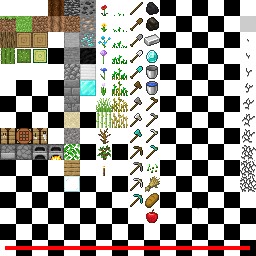
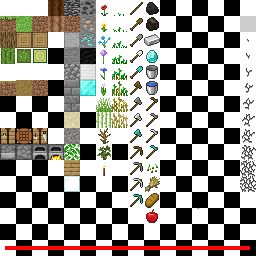
dirt paths + sapling growth

Changed region(s): [[0.0, 0.3125, 0.1875, 0.375]]

diff --git a/Sources/tickUpdate.cpp b/Sources/tickUpdate.cpp
@@ -18,8 +18,18 @@ void Chunk::updateCrop( int value, int offset )
 	int posX = ((offset >> WORLD_SHIFT) >> CHUNK_SHIFT);
 	// std::cout << _startX << ", " << _startY << ": update crop at " << posX << ", " << posY << ", " << posZ << std::endl;
 	int light = getLightLevel(posX, posY, posZ);
-	if (maxi(light & 0xF, (light >> 8) & 0xF) < 9) { // crop requires light level of at least 9 to grow // TODO handle night light dimming
+	light = maxi(light & 0xF, (light >> 8) & 0xF);
+	if (light < 9) { // crop requires light level of at least 9 to grow // TODO handle night light dimming
 		// std::cout << "Failure. sky light " << ((light >> 8) & 0xF) << ", block light " << (light & 0xF) << std::endl;
+		if (light <= 7) { // uproot // TODO crops can't be planted if light level <= 7
+			entity_block(posX, posY, posZ, value & 0xFF);
+			_blocks[offset] = blocks::AIR;
+			_added[offset] = blocks::AIR;
+			_displayed_faces -= 4;
+			delete [] static_cast<GLint*>(_vertices);
+			_vertices = new GLint[_displayed_faces * 4 * 6];
+			_vertex_update = true;
+		}
 		return ;
 	}
 	float points = (getBlockAt(posX, posY, posZ - 1, false) & blocks::WET_FARMLAND) ? 4 : 2;
@@ -35,7 +45,7 @@ void Chunk::updateCrop( int value, int offset )
 	if (Random::randomFloat(_seed) <= growth_probability) {
 		_blocks[offset] = value + 1;
 		_added[offset] = value + 1;
-		_light_update = true;
+		_vertex_update = true;
 		// std::cout << "Success!" << std::endl;
 	} else {
 		// std::cout << "Failure." << std::endl;
@@ -68,7 +78,7 @@ void Chunk::updateFarmland( int value, int offset )
 		if (wetness == 1) {
 			_blocks[offset] = value & 0xFF;
 			_added[offset] = value & 0xFF;
-			_light_update = true;
+			_vertex_update = true;
 			return ;
 		} else if (wetness > 1) {
 			_blocks[offset] = (value & 0xFFE1FF) + ((wetness - 1) << 10);
@@ -77,13 +87,13 @@ void Chunk::updateFarmland( int value, int offset )
 		} else if (type_above < blocks::WHEAT_CROP || type_above > blocks::WHEAT_CROP7) {
 			_blocks[offset] = blocks::DIRT;
 			_added[offset] = blocks::DIRT;
-			_light_update = true;
+			_vertex_update = true;
 			return ;
 		}
 	} else if (!(value & blocks::WET_FARMLAND)) {
 		_blocks[offset] = (value & 0xFF) + blocks::WET_FARMLAND + (0x7 << 10);
 		_added[offset] = (value & 0xFF) + blocks::WET_FARMLAND + (0x7 << 10);
-		_light_update = true;
+		_vertex_update = true;
 	}
 }
 
@@ -105,16 +115,17 @@ void Chunk::spreadGrassblock( int offset )
 		if (air_flower(above, true, true, true)) {
 			_blocks[offset] = blocks::DIRT;
 			_added[offset] = blocks::DIRT;
-			_light_update = true;
+			_vertex_update = true;
 			return ;
 		}
 	}
 	int light = getLightLevel(posX, posY, posZ + 1);
-	if (maxi(light & 0xF, (light >> 8) & 0xF) < 9) { // grass requires light level of at least 9 to spread // TODO handle night light dimming
-		if (maxi(light & 0xF, (light >> 8) & 0xF) < 5) {
+	light = maxi(light & 0xF, (light >> 8) & 0xF);
+	if (light < 9) { // grass requires light level of at least 9 to spread // TODO handle night light dimming
+		if (light < 5) {
 			_blocks[offset] = blocks::DIRT;
 			_added[offset] = blocks::DIRT;
-			_light_update = true;
+			_vertex_update = true;
 		}
 		return ;
 	}
@@ -172,9 +183,54 @@ void Chunk::decayLeaves( int offset )
 	if (!logConnected) {
 		_blocks[offset] = blocks::AIR; // TODO might want to update ligth
 		_added[offset] = blocks::AIR;
-		_light_update = true;
+		_vertex_update = true;
 		entity_block(posX, posY, posZ, blocks::OAK_LEAVES);
 	}
+}
+
+/* returns wheter there is space above position to grow an oak tree (3x3x5 needed) 
+ * dirt and grass_blocks can be in that space */
+bool Chunk::spaceForTree( int posX, int posY, int posZ )
+{
+	for (int row = -1; row < 2; row++) {
+		for (int col = -1; col < 2; col++) {
+			for (int level = 1; level < 6; level++) {
+				int type = getBlockAt(posX + row, posY + col, posZ + level, true) & 0xFF;
+				if (air_flower(type, true, false, true) && type != blocks::GRASS_BLOCK && type != blocks::DIRT) {
+					return (false);
+				}
+			}
+		}
+	}
+	return (true);
+}
+
+void Chunk::growTree( int value, int offset )
+{
+	int posZ = offset & (WORLD_HEIGHT - 1);
+	int posY = ((offset >> WORLD_SHIFT) & (CHUNK_SIZE - 1));
+	int posX = ((offset >> WORLD_SHIFT) >> CHUNK_SHIFT);
+
+	int light = getLightLevel(posX, posY, posZ);
+	light = maxi(light & 0xF, (light >> 8) & 0xF);
+	std::cout << "growTree at " << posX << ", " << posY << ", " << posZ << std::endl;
+	if (light < 9 || !spaceForTree(posX, posY, posZ)) { // requirements not met
+	std::cout << "failure. light " << light << std::endl;
+		return ;
+	}
+	if (!((value >> 9) & 0x1)) { // grow into stage 1, no visual diff
+		_blocks[offset] = value + (1 << 9);
+		_added[offset] = value + (1 << 9);
+	std::cout << "grow stage 1!" << std::endl;
+		return ;
+	}
+	std::cout << "oak tree!" << std::endl;
+	// grow oak tree starting from offset
+	_blocks[offset] = blocks::AIR;
+	add_block( false, {posX, posY, posZ}, blocks::OAK_LOG, blocks::AIR );
+	delete [] static_cast<GLint*>(_vertices);
+	_vertices = new GLint[_displayed_faces * 4 * 6];
+	_vertex_update = true;
 }
 
 // ************************************************************************** //
@@ -205,7 +261,7 @@ void Chunk::turnDirtToGrass( int posX, int posY, int posZ )
 	} else {
 		_blocks[(((posX << CHUNK_SHIFT) + posY) << WORLD_SHIFT) + posZ] = blocks::GRASS_BLOCK;
 		_added[(((posX << CHUNK_SHIFT) + posY) << WORLD_SHIFT) + posZ] = blocks::GRASS_BLOCK;
-		_light_update = true;
+		_vertex_update = true;
 	}
 }
 
@@ -229,6 +285,8 @@ void Chunk::updateTick( void )
 				spreadGrassblock(selected);
 			} else if (type == blocks::OAK_LEAVES && (value & blocks::NATURAL)) {
 				decayLeaves(selected);
+			} else if (type == blocks::OAK_SAPLING) {
+				growTree(value, selected);
 			}
 		}
 	}

diff --git a/Sources/Chunk.cpp b/Sources/Chunk.cpp
@@ -8,7 +8,7 @@ extern siv::PerlinNoise::seed_type perlin_seed;
 Chunk::Chunk( Camera *camera, Inventory *inventory, int posX, int posY, std::list<Chunk *> *chunks )
 	: _isVisible(true), _vaoSet(false),
 	_waterVaoSet(false), _waterVaoVIP(false),
-	_skyVaoSet(false), _skyVaoVIP(false), _genDone(false), _light_update(false),
+	_skyVaoSet(false), _skyVaoVIP(false), _genDone(false), _light_update(false), _vertex_update(false),
 	_vaoReset(false), _vaoVIP(false), _waterVaoReset(false), _skyVaoReset(false), _sortedOnce(false),
 	_startX(posX), _startY(posY), _nb_neighbours(0),
 	_blocks(NULL), _water_vert(NULL), _sky_vert(NULL), _vertices(NULL), _lights(NULL),
@@ -667,7 +667,7 @@ void Chunk::add_block( bool useInventory, glm::ivec3 pos, int type, int previous
 		int type_below = _blocks[offset - 1] & 0xFF;
 		if (type != blocks::TORCH && type != blocks::WHEAT_CROP && type_below != blocks::GRASS_BLOCK && type_below != blocks::DIRT && type_below != blocks::SAND) {
 			return ; // can't place flower on something else than grass/dirt block
-		} else if (!(type_below > blocks::AIR && type_below < blocks::POPPY)) {
+		} else if (!(type_below > blocks::AIR && type_below < blocks::POPPY) || s_blocks[type_below].hasHitbox) {
 			return ;
 		}
 	} else if (previous >= blocks::WATER) { // replace water block with something else
@@ -702,11 +702,11 @@ void Chunk::add_block( bool useInventory, glm::ivec3 pos, int type, int previous
 	} else if (type == blocks::GLASS) {
 		_hasWater = true; // glass considered as invis block
 	}
-	if (type == blocks::FARMLAND) {
+	if (type == blocks::FARMLAND || type == blocks::DIRT_PATH) {
 		light_spread(pos.x, pos.y, pos.z, false);
 		light_spread(pos.x, pos.y, pos.z, true);
 		_light_update = false;
-		_displayed_faces -= face_count(blocks::GRASS_BLOCK, pos.x, pos.y, pos.z);
+		_displayed_faces -= face_count(previous, pos.x, pos.y, pos.z);
 		_displayed_faces += face_count(type, pos.x, pos.y, pos.z);
 		for (int index = 0; index < 6; index++) {
 			const GLint delta[3] = {adj_blocks[index][0], adj_blocks[index][1], adj_blocks[index][2]};
@@ -1037,7 +1037,9 @@ void Chunk::regeneration( bool useInventory, int type, glm::ivec3 pos, bool addi
 		}
 		remove_block(useInventory, pos);
 	} else {
-		if (type == blocks::FARMLAND) {
+		if (type == blocks::DIRT_PATH && pos.z < 254 && (_blocks[(((pos.x << CHUNK_SHIFT) + pos.y) << WORLD_SHIFT) + pos.z + 1] & 0xFF) != blocks::AIR) { // can't turn dirt to dirt path if anything above it
+			return ;
+		} else if (type == blocks::FARMLAND || type == blocks::DIRT_PATH) {
 		} else if (type == blocks::WHEAT_CROP && (_blocks[(((pos.x << CHUNK_SHIFT) + pos.y) << WORLD_SHIFT) + pos.z - 1] & 0xFF) != blocks::FARMLAND) { // can't place crop on something other than farmland
 			return ;
 		} else if ((previous_type != blocks::AIR && previous_type < blocks::WATER) || type == blocks::AIR) { // can't replace block
@@ -1359,7 +1361,7 @@ void Chunk::update_border( int posX, int posY, int level, int type, bool adding 
 			// std::cout << "took jump" << std::endl;
 			goto FILL; // this is only to update face shading TODO only update concerned faces
 		}
-		_displayed_faces--;
+		_displayed_faces--; // TODO handle dirt path, slabs and farmland
 		if (!face_count(value, posX, posY, level)) { // block no more visible
 			_blocks[offset] += blocks::NOTVISIBLE;
 		}
@@ -1529,6 +1531,9 @@ void Chunk::drawArray( GLint & counter, GLint &face_counter )
 {
 	if (_light_update && _nb_neighbours == 4) {
 		std::cout << _startX << ", " << _startY << " light update" << std::endl;
+		fill_vertex_array();
+	} else if (_vertex_update && _nb_neighbours == 4) {
+		// std::cout << _startX << ", " << _startY << " crop update" << std::endl;
 		fill_vertex_array();
 	}
 	if (!_vaoReset) { // TODO change vaoReset logic (swap true and false)

diff --git a/Sources/light.cpp b/Sources/light.cpp
@@ -90,7 +90,7 @@ void Chunk::generate_lights( void )
 			for (int level = WORLD_HEIGHT - 1; level > 0; level--) {
 				if (light_level) {
 					int type = _blocks[(((row << CHUNK_SHIFT) + col) << WORLD_SHIFT) + level] & 0xFF;
-					if (air_flower(type, true, true, false) && type != blocks::OAK_SLAB && type != blocks::FARMLAND) { // block hit
+					if (air_flower(type, true, true, false) && type != blocks::OAK_SLAB && type != blocks::FARMLAND && type != blocks::DIRT_PATH) { // block hit
 						light_level = 0;
 					}
 					_lights[(((row << CHUNK_SHIFT) + col) << WORLD_SHIFT) + level] = (light_level + (light_level << 4)) << 8; // we consider blocks directly under sky as light source
@@ -338,6 +338,12 @@ void Chunk::fill_vertex_array( void )
 							int faceLight = computeLight(row, col, level + 1);
 							int shade = computeShade(row, col, level + 1, {-1, 0, 0, -1, 1, 0, 0, 1, 0});
 							spec += (faceLight << 24);
+							if (block_type == blocks::DIRT_PATH) {
+								p4.z -= 1.0f / 16.0f;
+								p5.z -= 1.0f / 16.0f;
+								p0.z -= 1.0f / 16.0f;
+								p1.z -= 1.0f / 16.0f;
+							}
 							// if (shade & 0xFF)std::cout << "shade is " << shade << std::endl;
 							// if (shade & 0xFFFFFF00)std::cout << "problem" << std::endl;
 							std::pair<int, glm::vec3> v0 = {spec + (shade << 22), p4};
@@ -410,6 +416,7 @@ void Chunk::fill_vertex_array( void )
 	// 	std::cout << "ERROR fill_vertex_array " << _startX << ", " << _startY << "\n\tindex at end is " << (index >> 2) / 6 << " | " << index << " vs " << _displayed_faces << " | " << _displayed_faces * 4 * 6 << std::endl;
 	// }
 	_light_update = false;
+	_vertex_update = false;
 	_vaoReset = false;
 	_vaoVIP = true;
 }
@@ -476,8 +483,8 @@ void Chunk::light_try_spread( int posX, int posY, int posZ, short level, bool sk
 			}
 		}
 	} else {
-		int value = _blocks[(((posX << CHUNK_SHIFT) + posY) << WORLD_SHIFT) + posZ] & 0xFF;
-		if (air_flower(value, true, true, false) && value != blocks::OAK_SLAB && value != blocks::FARMLAND) {
+		int type = _blocks[(((posX << CHUNK_SHIFT) + posY) << WORLD_SHIFT) + posZ] & 0xFF;
+		if (air_flower(type, true, true, false) && type != blocks::OAK_SLAB && type != blocks::FARMLAND && type != blocks::DIRT_PATH) {
 			return ;
 		}
 		short neighbour = (_lights[(((posX << CHUNK_SHIFT) + posY) << WORLD_SHIFT) + posZ] >> (8 * skySpread));

diff --git a/Includes/Blocks.hpp b/Includes/Blocks.hpp
@@ -8,6 +8,7 @@ namespace blocks {
 		OAK_LOG,
 		CACTUS,
 		FARMLAND,
+		DIRT_PATH,
 		CRAFTING_TABLE = 8,
 		FURNACE,
 		BEDROCK = 16,
@@ -209,6 +210,24 @@ struct Farmland : Block {
 			break_time_wooden = 0.45f;
 			break_time_stone = 0.25f;
 			break_time_iron = 0.15f;
+			break_time_diamond = 0.15f;
+		}
+};
+
+struct DirtPath : Block {
+	public:
+		DirtPath() {
+			name = "DIRT PATH";
+			mined = blocks::DIRT;
+			hasHitbox = true;
+			hitboxCenter = {0.5f, 0.5f, 7.5f / 16.0f};
+			hitboxHalfSize = {0.5f, 0.5f, 7.5f / 16.0f};
+			byHand = true;
+			needed_tool = blocks::WOODEN_SHOVEL;
+			break_time_hand = 1.0f;
+			break_time_wooden = 0.5f;
+			break_time_stone = 0.25f;
+			break_time_iron = 0.2f;
 			break_time_diamond = 0.15f;
 		}
 };
@@ -1111,7 +1130,7 @@ struct Apple : Block {
 };
 
 const Block s_blocks[112] = {
-	Air(), GrassBlock(), OakLog(), Cactus(), Farmland(), TBD(), TBD(), TBD(), CraftingTable(), Furnace(), TBD(), TBD(), TBD(), TBD(), TBD(), TBD(),
+	Air(), GrassBlock(), OakLog(), Cactus(), Farmland(), DirtPath(), TBD(), TBD(), CraftingTable(), Furnace(), TBD(), TBD(), TBD(), TBD(), TBD(), TBD(),
 	Bedrock(), Dirt(), SmoothStone(), Stone(), Cobblestone(), StoneBrick(), CrackedStoneBrick(), Sand(), Gravel(), OakLeaves(), OakPlanks(), Glass(), TBD(), TBD(), TBD(), TBD(),
 	CoalOre(), IronOre(), DiamondOre(), CoalBlock(), IronBlock(), DiamondBlock(), TBD(), TBD(), OakSlab(), TBD(), TBD(), TBD(), TBD(), TBD(), TBD(), TBD(),
 	Poppy(), Dandelion(), BlueOrchid(), Allium(), CornFlower(), PinkTulip(), Grass(), SugarCane(), DeadBush(), OakSapling(), Torch(), TBD(), TBD(), TBD(), TBD(), TBD(),

diff --git a/Sources/utils.cpp b/Sources/utils.cpp
@@ -224,7 +224,7 @@ bool visible_face( int value, int next, face_dir dir )
 		&& (dir == face_dir::PLUSX || dir == face_dir::PLUSY || dir == face_dir::PLUSZ)))) {
 		return (true);
 	}
-	if (dir == face_dir::PLUSZ && (value == blocks::OAK_SLAB || value == blocks::FARMLAND)) {
+	if (dir == face_dir::PLUSZ && (value == blocks::OAK_SLAB || value == blocks::FARMLAND || value == blocks::DIRT_PATH)) {
 		return (true);
 	}
 	if (next == blocks::OAK_SLAB) {
@@ -233,11 +233,13 @@ bool visible_face( int value, int next, face_dir dir )
 		}
 		return (value != blocks::OAK_SLAB);
 	}
-	if (next == blocks::FARMLAND) {
+	if (next == blocks::FARMLAND || next == blocks::DIRT_PATH) {
 		if (dir == face_dir::MINUSZ) {
 			return (true);
+		} else if (dir == face_dir::PLUSZ) {
+			return (false);
 		}
-		return (value != blocks::OAK_SLAB && value != blocks::FARMLAND);
+		return (value != blocks::OAK_SLAB && value != blocks::FARMLAND && value != blocks::DIRT_PATH);
 	}
 	return (false);
 }

diff --git a/Includes/Chunk.hpp b/Includes/Chunk.hpp
@@ -75,7 +75,7 @@ class Chunk
     private:
         GLuint _vao, _vbo, _waterVao, _waterVbo, _skyVao, _skyVbo;
         bool _isVisible, _vaoSet, _waterVaoSet, _waterVaoVIP, _skyVaoSet, _skyVaoVIP;
-		std::atomic_bool _genDone, _light_update, _vaoReset, _vaoVIP, _waterVaoReset, _skyVaoReset, _sortedOnce;
+		std::atomic_bool _genDone, _light_update, _vertex_update, _vaoReset, _vaoVIP, _waterVaoReset, _skyVaoReset, _sortedOnce;
         GLint _startX, _startY, _nb_neighbours;
 		unsigned _seed;
 		GLint _continent;
@@ -131,6 +131,8 @@ class Chunk
 		void spreadGrassblock( int offset );
 		bool findLog( int posX, int posY, int posZ, int level );
 		void decayLeaves( int offset );
+		bool spaceForTree( int posX, int posY, int posZ );
+		void growTree( int value, int offset );
 	
         void fill_vertex_array( void );
         void setup_array_buffer( void );

diff --git a/Sources/inputs.cpp b/Sources/inputs.cpp
@@ -105,6 +105,10 @@ void OpenGL_Manager::handle_add_rm_block( bool adding, bool collect )
 		&& (_block_hit.w == blocks::DIRT || _block_hit.w == blocks::GRASS_BLOCK)) { // special case, add but change block to farmland instead
 		type = blocks::FARMLAND;
 		replace_block = true;
+	} else if (type >= blocks::WOODEN_SHOVEL && type <= blocks::DIAMOND_SHOVEL
+		&& (_block_hit.w == blocks::DIRT || _block_hit.w == blocks::GRASS_BLOCK)) { // special case, add but change block to farmland instead
+		type = blocks::DIRT_PATH;
+		replace_block = true;
 	} else if (type == blocks::WHEAT_SEEDS) {
 		type = blocks::WHEAT_CROP;
 	} else if (type == blocks::AIR || type >= blocks::STICK) {

diff --git a/Sources/fluids.cpp b/Sources/fluids.cpp
@@ -180,8 +180,8 @@ bool Chunk::addFlow( std::set<int> *newFluids, int posX, int posY, int posZ, int
 			}
 			// std::cout << "type after: " << s_blocks[level].name << ". displayed: " << _displayed_faces << std::endl;
 			delete [] static_cast<GLint*>(_vertices);
-			_vertices = new GLint[_displayed_faces * 24]; // TODO set flag to true and update vert array once on this frame instead of once per destroyed flower
-			fill_vertex_array();
+			_vertices = new GLint[_displayed_faces * 24];
+			_vertex_update = true;
 		}
 		if (!air_flower(type, false, false, true)) {
 			_hasWater = true;
